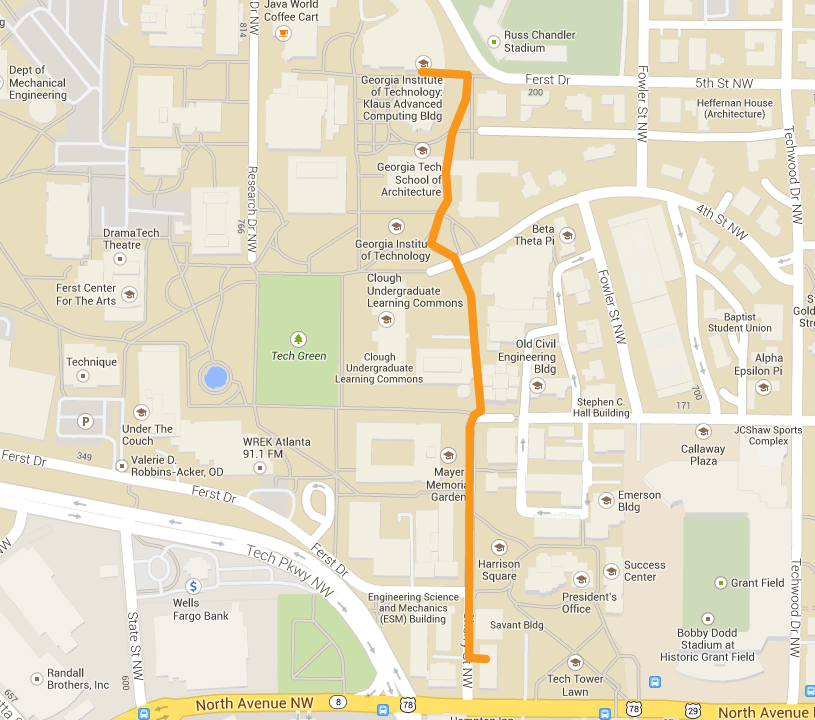
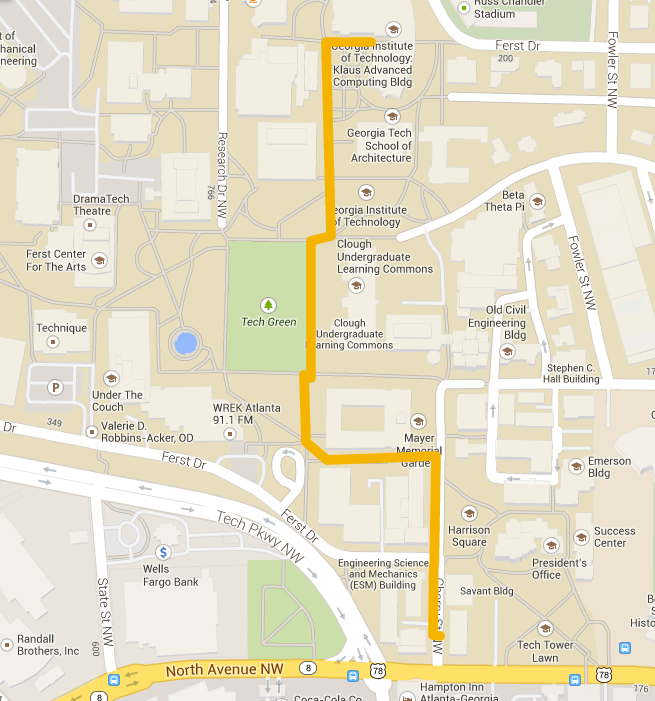
adding screens and things...

diff --git a/GTNavaTech/navigate.html b/GTNavaTech/navigate.html
@@ -44,7 +44,7 @@
                 <div class="row transportationOptions">
                     <div class="medium-4 small-4 large-4 column transOption" data-type="walk">
                         <a href="#" class="walkingIcon"><i class="flaticon-silhouette4"></i></a>
-                        <div>Walking : 9 min</div>
+                        <div>Walking : 11 min</div>
                     </div>
                     <div class="medium-4 small-4 large-4 column transOption" data-type="bike">
                         <a href="#" class="bikingIcon"><i class="flaticon-cycling"></i></a>
@@ -52,7 +52,7 @@
                     </div>
                     <div class="medium-4 small-4 large-4 column transOption" data-type="bus">
                         <a href="#" class="busIcon"><i class="flaticon-train5"></i></a>
-                        <div>Trolley : 3 & 10 min</div>
+                        <div>Trolley : 2 & 10 min</div>
                     </div>
                 </div>
                 <div class="row">
@@ -75,38 +75,50 @@
                         <ul>
                             <li>
                                 <div class="row">
-                                    <div class="small-9 medium-6 large-6 column">Head south</div>
-                                    <div class="small-2 medium-6 large-6 column">335 ft</div>
+                                    <div class="small-9 medium-6 large-6 column">Head west</div>
+                                    <div class="small-2 medium-6 large-6 column">213 ft</div>
                                 </div>
                             </li>
                             <li>
                                 <div class="row">
                                     <div class="small-9 medium-6 large-6 column">Turn left</div>
-                                    <div class="small-2 medium-6 large-6 column">233 ft</div>
+                                    <div class="small-2 medium-6 large-6 column">0.1 mi</div>
                                 </div>
                             </li>
                             <li>
                                 <div class="row">
                                     <div class="small-9 medium-6 large-6 column">Turn right</div>
-                                    <div class="small-2 medium-6 large-6 column">249 ft</div>
-                                </div>
-                            </li>
-                            <li>
-                                <div class="row">
-                                    <div class="small-9 medium-6 large-6 column">Turn right</div>
-                                    <div class="small-2 medium-6 large-6 column">167 ft</div>
+                                    <div class="small-2 medium-6 large-6 column">56 ft</div>
                                 </div>
                             </li>
                             <li>
                                 <div class="row">
                                     <div class="small-9 medium-6 large-6 column">Turn left</div>
-                                    <div class="small-2 medium-6 large-6 column">430 ft</div>
+                                    <div class="small-2 medium-6 large-6 column">436 ft</div>
                                 </div>
                             </li>
                             <li>
                                 <div class="row">
                                     <div class="small-9 medium-6 large-6 column">Turn right</div>
-                                    <div class="small-2 medium-6 large-6 column">272 ft</div>
+                                    <div class="small-2 medium-6 large-6 column">20 ft</div>
+                                </div>
+                            </li>
+                            <li>
+                                <div class="row">
+                                    <div class="small-9 medium-6 large-6 column">Turn left</div>
+                                    <div class="small-2 medium-6 large-6 column">223 ft</div>
+                                </div>
+                            </li>
+                            <li>
+                                <div class="row">
+                                    <div class="small-9 medium-6 large-6 column">Turn left</div>
+                                    <div class="small-2 medium-6 large-6 column">463 ft</div>
+                                </div>
+                            </li>
+                            <li>
+                                <div class="row">
+                                    <div class="small-9 medium-6 large-6 column">Turn right on to Cherry St NW</div>
+                                    <div class="small-2 medium-6 large-6 column">0.1</div>
                                 </div>
                             </li>
                             <li>
@@ -121,44 +133,56 @@
                         <ul>
                             <li>
                                 <div class="row">
-                                    <div class="small-9 medium-6 large-6 column">Head south</div>
-                                    <div class="small-2 medium-6 large-6 column">335 ft</div>
+                                    <div class="small-9 medium-6 large-6 column">Head west</div>
+                                    <div class="small-2 medium-6 large-6 column">200 ft</div>
                                 </div>
                             </li>
                             <li>
                                 <div class="row">
                                     <div class="small-9 medium-6 large-6 column">Turn left</div>
-                                    <div class="small-2 medium-6 large-6 column">233 ft</div>
+                                    <div class="small-2 medium-6 large-6 column">0.1 mi</div>
                                 </div>
                             </li>
                             <li>
                                 <div class="row">
                                     <div class="small-9 medium-6 large-6 column">Turn right</div>
-                                    <div class="small-2 medium-6 large-6 column">249 ft</div>
-                                </div>
-                            </li>
-                            <li>
-                                <div class="row">
-                                    <div class="small-9 medium-6 large-6 column">Turn right</div>
-                                    <div class="small-2 medium-6 large-6 column">167 ft</div>
+                                    <div class="small-2 medium-6 large-6 column">56 ft</div>
                                 </div>
                             </li>
                             <li>
                                 <div class="row">
                                     <div class="small-9 medium-6 large-6 column">Turn left</div>
-                                    <div class="small-2 medium-6 large-6 column">430 ft</div>
+                                    <div class="small-2 medium-6 large-6 column">436 ft</div>
                                 </div>
                             </li>
                             <li>
                                 <div class="row">
                                     <div class="small-9 medium-6 large-6 column">Turn right</div>
-                                    <div class="small-2 medium-6 large-6 column">272 ft</div>
+                                    <div class="small-2 medium-6 large-6 column">20 ft</div>
+                                </div>
+                            </li>
+                            <li>
+                                <div class="row">
+                                    <div class="small-9 medium-6 large-6 column">Turn left</div>
+                                    <div class="small-2 medium-6 large-6 column">223 ft</div>
+                                </div>
+                            </li>
+                            <li>
+                                <div class="row">
+                                    <div class="small-9 medium-6 large-6 column">Turn left</div>
+                                    <div class="small-2 medium-6 large-6 column">463 ft</div>
+                                </div>
+                            </li>
+                            <li>
+                                <div class="row">
+                                    <div class="small-9 medium-6 large-6 column">Turn right on to Cherry St NW</div>
+                                    <div class="small-2 medium-6 large-6 column">0.1</div>
                                 </div>
                             </li>
                             <li>
                                 <div class="row">
                                     <div class="small-9 column">Destination will be on the left</div>
-                                    <img class="bump" src="img/studentCenter.jpg" />
+                                    <img class="bump" src="img/swann.jpg" />
                                 </div>
                             </li>
                         </ul>
@@ -167,26 +191,38 @@
                         <ul>
                             <li>
                                 <div class="row">
-                                    <div class="small-9 medium-6 large-6 column">Head southeast towards Ferst Dr</div>
-                                    <div class="small-2 medium-6 large-6 column">256 ft</div>
-                                </div>
-                            </li>
-                            <li>
-                                <div class="row">
-                                    <div class="small-9 medium-6 large-6 column">Get on Trolley headed counterclockwise</div>
+                                    <div class="small-9 medium-6 large-6 column">Get on the Trolley headed counterclockwise</div>
                                     <div class="small-2 medium-6 large-6 column">8 min</div>
                                 </div>
                             </li>
                             <li>
                                 <div class="row">
-                                    <div class="small-9 medium-6 large-6 column">Get off at Student Center Stop</div>
+                                    <div class="small-9 medium-6 large-6 column">Get off at Transit Hub stop</div>
                                     <div class="small-2 medium-6 large-6 column"></div>
                                 </div>
                             </li>
                             <li>
                                 <div class="row">
-                                    <div class="small-9 column">Destination will be on the left</div>
-                                    <img class="bump" src="img/studentCenter.jpg" />
+                                    <div class="small-9 medium-6 large-6 column">Walk south towards Ferst Dr</div>
+                                    <div class="small-2 medium-6 large-6 column">30 ft</div>
+                                </div>
+                            </li>
+                            <li>
+                                <div class="row">
+                                    <div class="small-9 medium-6 large-6 column">Turn left on to Ferst Dr</div>
+                                    <div class="small-2 medium-6 large-6 column">466 ft</div>
+                                </div>
+                            </li>
+                            <li>
+                                <div class="row">
+                                    <div class="small-9 medium-6 large-6 column">Turn  right onto Cherry St NW</div>
+                                    <div class="small-2 medium-6 large-6 column">213 ft</div>
+                                </div>
+                            </li>
+                            <li>
+                                <div class="row">
+                                    <div class="small-9 column">Destination will be on the right</div>
+                                    <img class="bump" src="img/swann.jpg" />
                                 </div>
                             </li>
                         </ul>

diff --git a/GTNavaTech/favorites.html b/GTNavaTech/favorites.html
@@ -16,7 +16,7 @@
     <script src="http://ajax.googleapis.com/ajax/libs/jqueryui/1.10.4/jquery-ui.min.js"></script>
     <script type="text/javascript" src="https://maps.googleapis.com/maps/api/js?key=AIzaSyB_0TcrVoEn7ybwZLDP6OUlMzBbjxGsmoI&sensor=true&libraries=geometry,places,weather&sensor=true"></script>
     <script src="js/vendor/modernizr.js"></script>
-    <script src="js/navigate.js"></script>
+    <script src="js/favorites.js"></script>
     <script src="js/main.js"></script>
 </head>
 <body>
@@ -33,7 +33,8 @@
             </nav>
             <aside class="left-off-canvas-menu">
                 <ul class="off-canvas-list">
-                    <li><label>GT NavaTech</label></li>
+                    <li>
+                        <label>GT NavaTech</label></li>
                     <li><a href="schedule.html">Create Schedule</a></li>
                     <li><a href="home.html">Navigate To Location</a></li>
                     <li><a href="favorites.html">Favorites</a></li>
@@ -68,14 +69,14 @@
                     </div>
                 </div>
 
-                 <div class="row bump">
+                <div class="row bump">
                     <div class="column header">
                         Favorite Places
                     </div>
                 </div>
                 <div class="row listDest">
                     <div class="column">
-                        <ul>
+                        <ul class="favList">
                             <li>
                                 <div class="row">
                                     <div class="small-9 medium-6 large-6 column">Student Center, Wenn Student Center</div>
@@ -84,7 +85,28 @@
                         </ul>
                     </div>
                 </div>
-                
+
+
+                <div class="row favorites">
+                    <div class="column">
+                        <a href="#" class="addFavorites button">Add Place to Favorites</a>
+                    </div>
+                </div>
+
+                <div class="row form hide">
+                    <div class="large-6 columns">
+                        <div class="row collapse">
+                            <div class="small-10 columns">
+                                <input class="input_to_location" type="text" placeholder="Place to Favorite">
+                                <div class="autocomplete_to_location autocomplete"></div>
+                            </div>
+                            <div class="small-2 columns">
+                                <a href="#" class="go button postfix">Go</a>
+                            </div>
+                        </div>
+                    </div>
+               </div>
+
             </section>
             <a class="exit-off-canvas"></a>
         </div>

diff --git a/GTNavaTech/home.html b/GTNavaTech/home.html
@@ -61,15 +61,6 @@
                     </div>
                 </div>
                 <div id="map-canvas"></div>
-               <!-- <div class="row">
-                    <div class="large-12 columns">
-                        <br>
-                        <h4 class="">Lorem Ipsum</h4>
-
-                        <p>Lorem Ipsum is simply dummy text of the printing and typesetting industry. Lorem Ipsum has been the industry's standard dummy text ever since the 1500s, when an unknown printer took a galley of type and scrambled it to make a type specimen book. It has survived not only five centuries, but also the leap into electronic typesetting, remaining essentially unchanged. It was popularised in the 1960s with the release of Letraset sheets containing Lorem Ipsum passages, and more recently with desktop publishing software like Aldus PageMaker including versions of Lorem Ipsum.</p>
-                        <p>The standard chunk of Lorem Ipsum used since the 1500s is reproduced below for those interested. Sections 1.10.32 and 1.10.33 from "de Finibus Bonorum et Malorum" by Cicero are also reproduced in their exact original form, accompanied by English versions from the 1914 translation by H. Rackham.</p>
-                    </div>
-                </div>-->
             </section>
             <a class="exit-off-canvas"></a>
         </div>

diff --git a/GTNavaTech/js/favorites.js b/GTNavaTech/js/favorites.js
@@ -1,0 +1,17 @@
+$(document).ready(function () {
+    
+    $('.addFavorites').on('click', function () {
+        $('.form').removeClass('hide');
+    });
+
+    $('.go').on('click', function () {
+        var form_validates = $('.input_to_location').val() != '';
+        if (form_validates) {
+            $('.favList').append('<li><div class="row"> <div class="small-9 medium-6 large-6 column">' + $('.input_to_location').val() + '</div></div></li>');
+            $('.input_to_location').val('');
+            $('.form').addClass('hide');
+        } else {
+            alert('Please enter a valid destination.');
+        }
+    });
+});

diff --git a/GTNavaTech/js/map.js b/GTNavaTech/js/map.js
@@ -22,7 +22,8 @@ function success(position) {
     geocoder = new google.maps.Geocoder();
 
     curr_position = [position.coords.latitude, position.coords.longitude];
-    var myLatlng = new google.maps.LatLng(33.777104, -84.396006);
+    var myLatlng = new google.maps.LatLng(33.777104, -84.396006); //Klaus
+    //var myLatlng = new google.maps.LatLng(33.778349, -84.403762); //Fitten
     //var myLatlng = new google.maps.LatLng(position.coords.latitude, position.coords.longitude);
     var mapOptions = {
         center: myLatlng,

diff --git a/GTNavaTech/css/theme.css b/GTNavaTech/css/theme.css
@@ -13,6 +13,7 @@
 
 body {
     height: 100%;
+    min-height: 1200px;
 }
 
 .inner-wrap {
